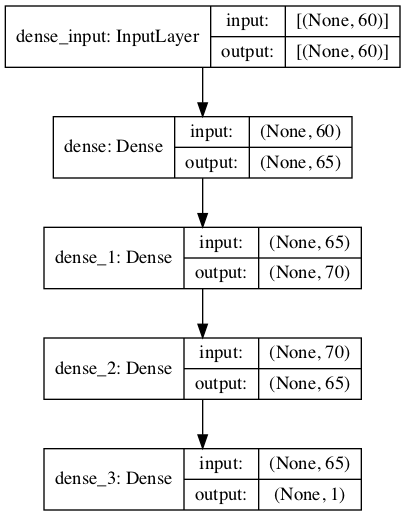
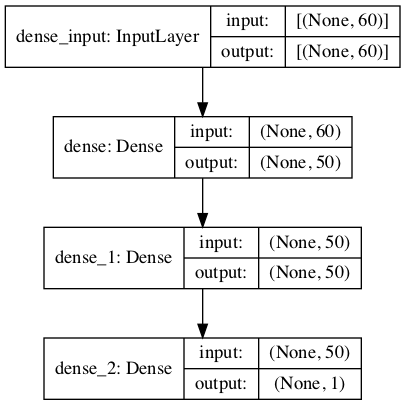
check_values_of_attributes() method was written.

Changed region(s): [[0.0, 0.0, 1.0, 1.0]]

diff --git a/artificial_neural_network_model_automation/classification_handler.py b/artificial_neural_network_model_automation/classification_handler.py
@@ -36,6 +36,8 @@ metric_string_list = ["accuracy", "binary_accuracy", "categorical_accuracy", "to
                       "AUC", "Precision", "Recall", "TruePositives", "TrueNegatives", "FalsePositives",
                       "FalseNegatives"]
 
+activation_functions = ["relu", "sigmoid", "tanh", "selu", "elu", "exponential"]
+
 
 class ANNClassificationHandlerConfig:
     """A configuration for Keras artificial neural network classifier.
@@ -79,7 +81,7 @@ class ANNClassificationHandlerConfig:
     def check_types_of_attributes(self):
         """Checks the types of attributes, if one of them is not okay, it raises exception.
         """
-        print("Checking the types of attributes")
+        print("\nChecking the types of attributes\n")
         if isinstance(self.classification_type, str):
             print("classification_type data type is okay")
         else:
@@ -131,6 +133,42 @@ class ANNClassificationHandlerConfig:
             print("epochs data type is okay")
         else:
             raise Exception("Sorry, epochs cannot be anything than int")
+
+    def check_values_of_attributes(self):
+        """Checks the values of attributes, if one of them is not okay, it raises exception.
+        """
+        print("\nChecking the values of attributes\n")
+        classification_type_condition = self.classification_type in ["binary", "multiclass"]
+        if classification_type_condition:
+            print("classification_type value is okay")
+        else:
+            raise Exception("Sorry, classification_type should be 'binary' or 'multiclass'")
+
+        length_of_neural_network_architecture = len(self.neural_network_architecture)
+        neural_network_architecture_condition_1 = length_of_neural_network_architecture < 3
+
+        if neural_network_architecture_condition_1:
+            raise Exception("Sorry, length of neural_network_architecture can't be less than 3")
+
+        for layer in self.neural_network_architecture:
+            if isinstance(layer, bool):
+                raise Exception("Sorry, neural network layer can't be anything than int")
+            layer_result_1 = not isinstance(layer, int)
+            if layer_result_1:
+                raise Exception("Sorry, neural network layer can't be anything than int")
+            layer_result_2 = layer < 0
+            if layer_result_2:
+                raise Exception("Sorry, neural network layer can't be less than 0")
+
+        print("neural_network_architecture value is okay")
+        hidden_layers_activation_function_condition = self.hidden_layers_activation_function in activation_functions
+        if hidden_layers_activation_function_condition:
+            print("hidden_layers_activation_function value is okay")
+        else:
+            raise Exception("Sorry, hidden_layers_activation_function value could be 'relu',"
+                            " 'sigmoid', 'tanh', 'selu', 'elu' or 'exponential'.")
+
+
 
 
 class ANNClassificationHandler:

diff --git a/tests/binary_classification_test.py b/tests/binary_classification_test.py
@@ -28,7 +28,7 @@ encoded_Y = encoder.transform(Y)
 ann_classification_handler_config = ANNClassificationHandlerConfig()
 ann_classification_handler_config.classification_type = "binary"
 # ann_classification_handler_config.classification_type = 1  # test for check_types_of_attributes()
-ann_classification_handler_config.neural_network_architecture = [60, 65, 70, 65, 1]
+ann_classification_handler_config.neural_network_architecture = [60, 50, 50, 1]
 # ann_classification_handler_config.neural_network_architecture = "dsknflsdkf"  # test for check_types_of_attributes()
 ann_classification_handler_config.hidden_layers_activation_function = "relu"
 # ann_classification_handler_config.hidden_layers_activation_function = 5  # test for check_types_of_attributes()
@@ -50,6 +50,8 @@ ann_classification_handler_config.epochs = 50
 
 # check the types of attributes of ann_classification_handler_config object
 ann_classification_handler_config.check_types_of_attributes()
+# check the values of attributes of ann_classification_handler_config object
+ann_classification_handler_config.check_values_of_attributes()
 
 ann_classification_handler = ANNClassificationHandler(ann_classification_handler_config)
 # save the plot of classifier architecture
